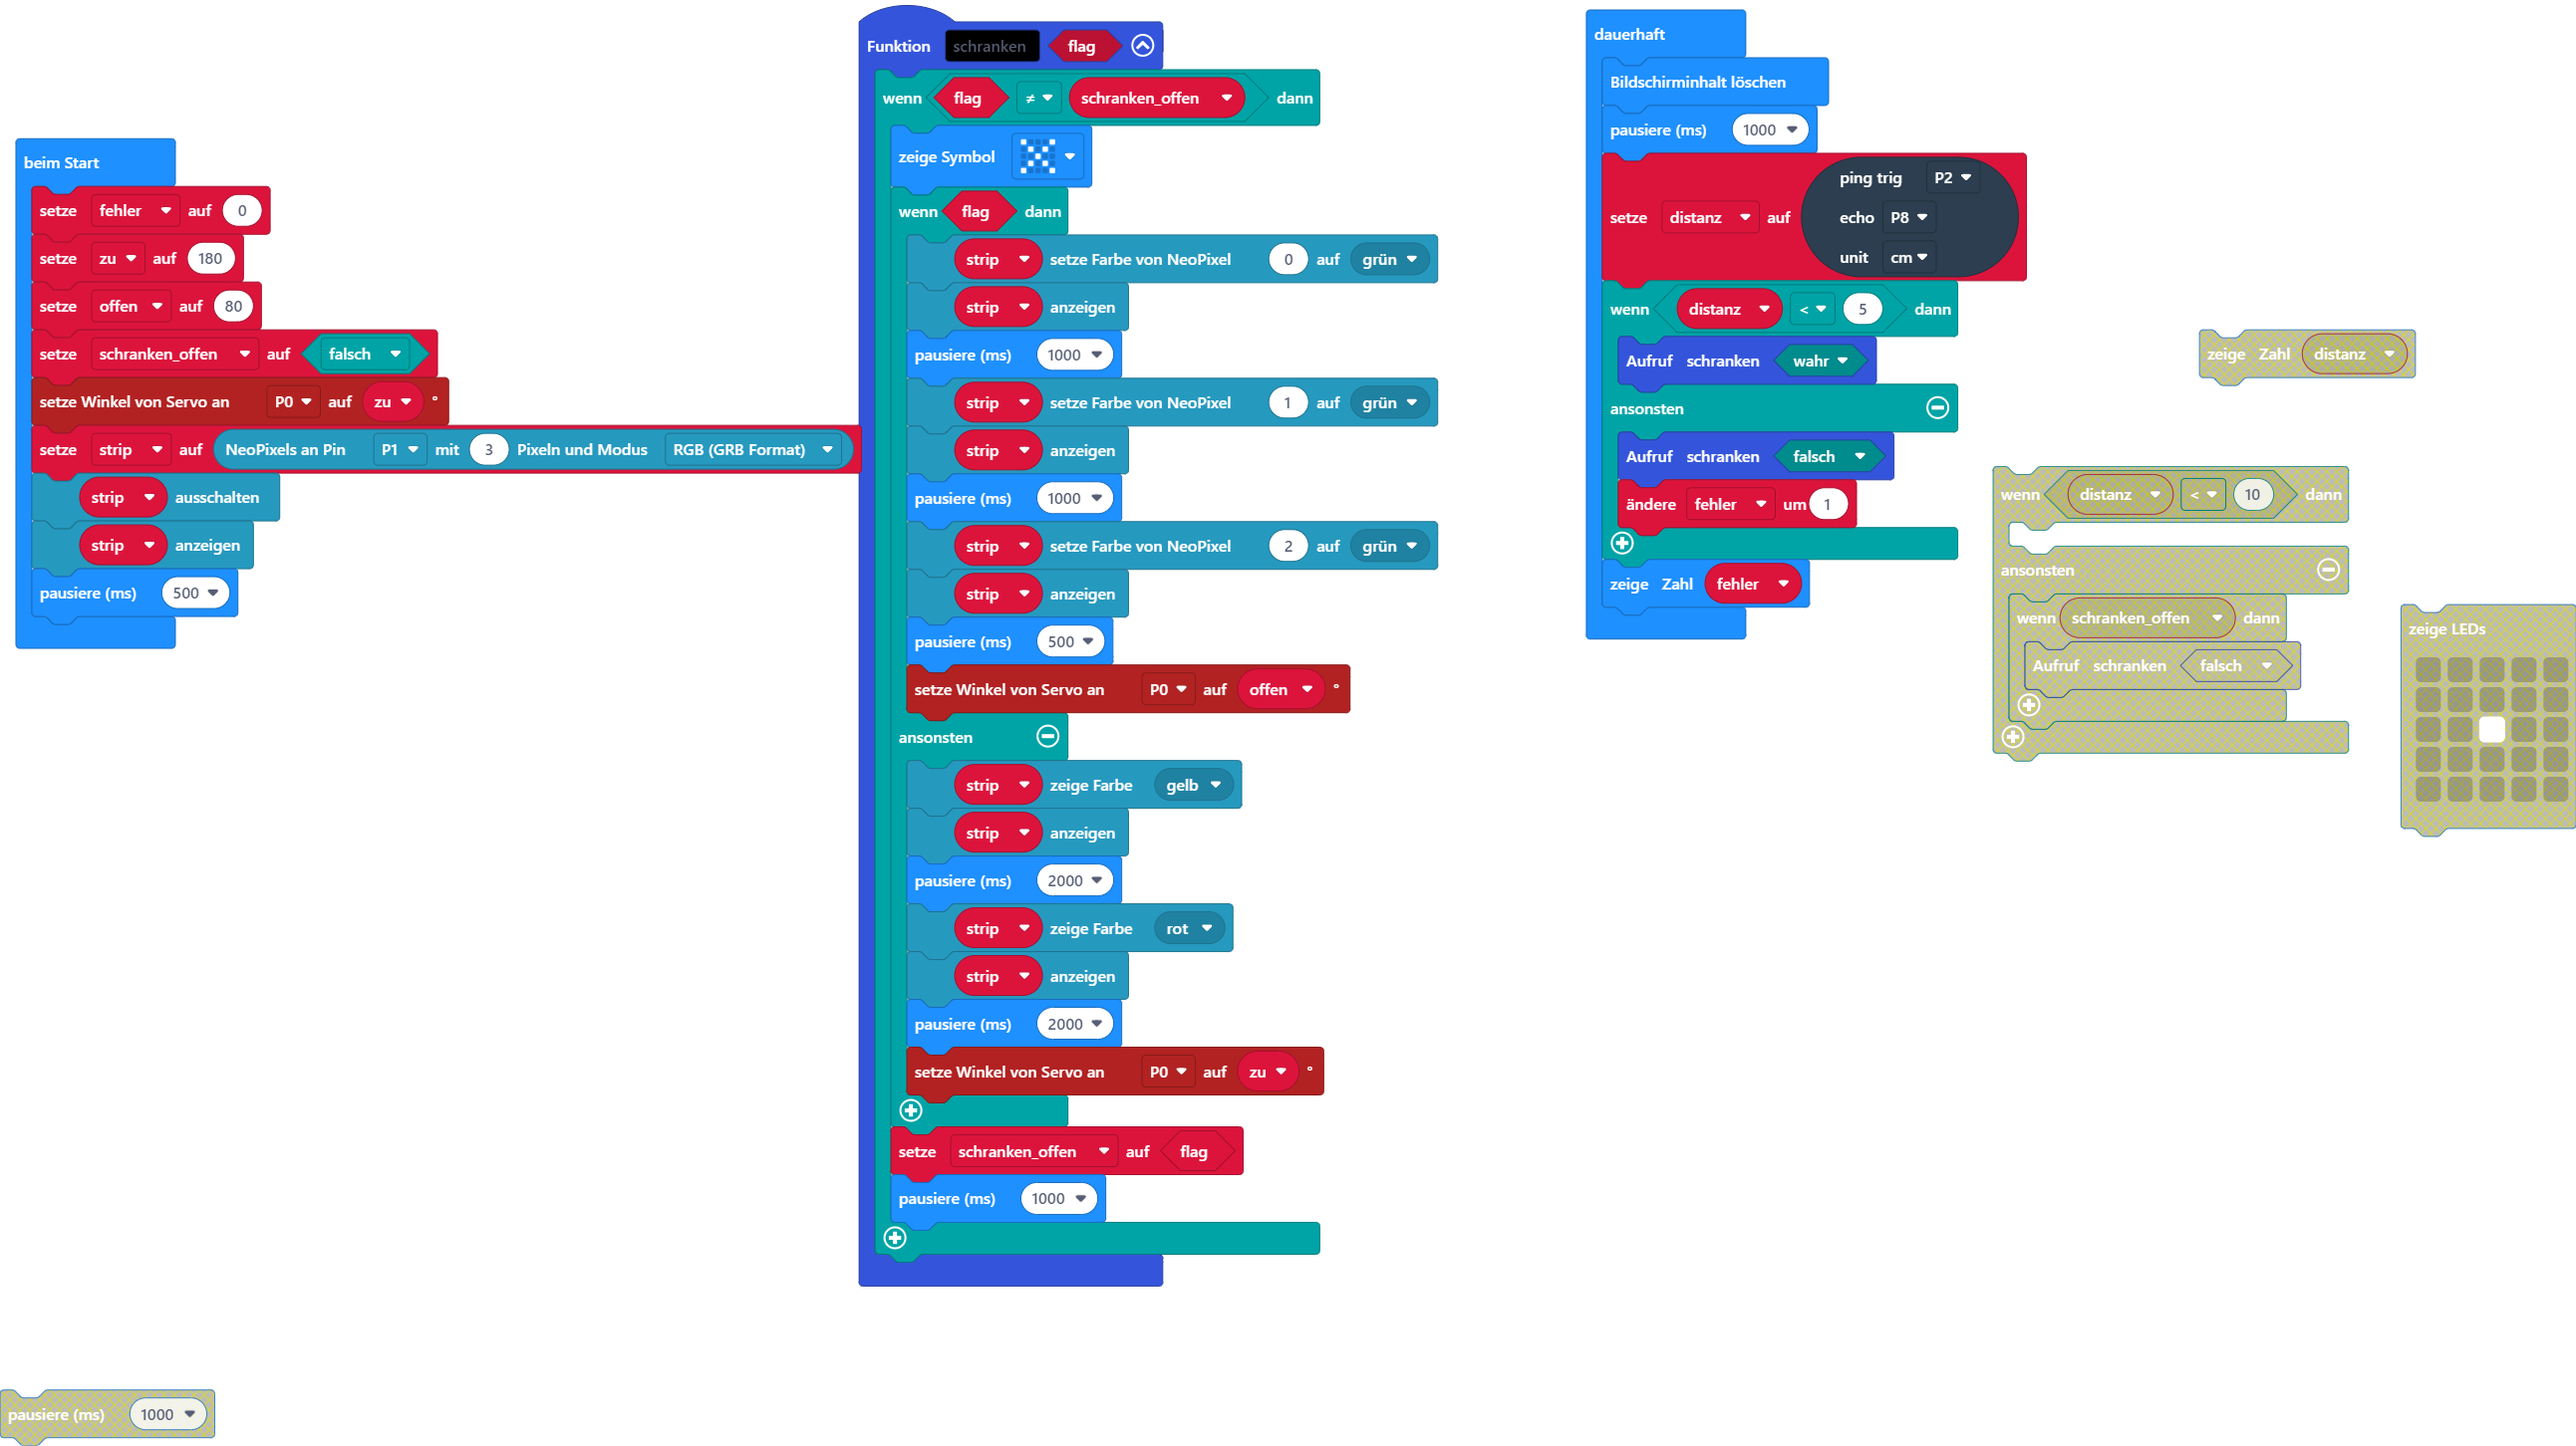
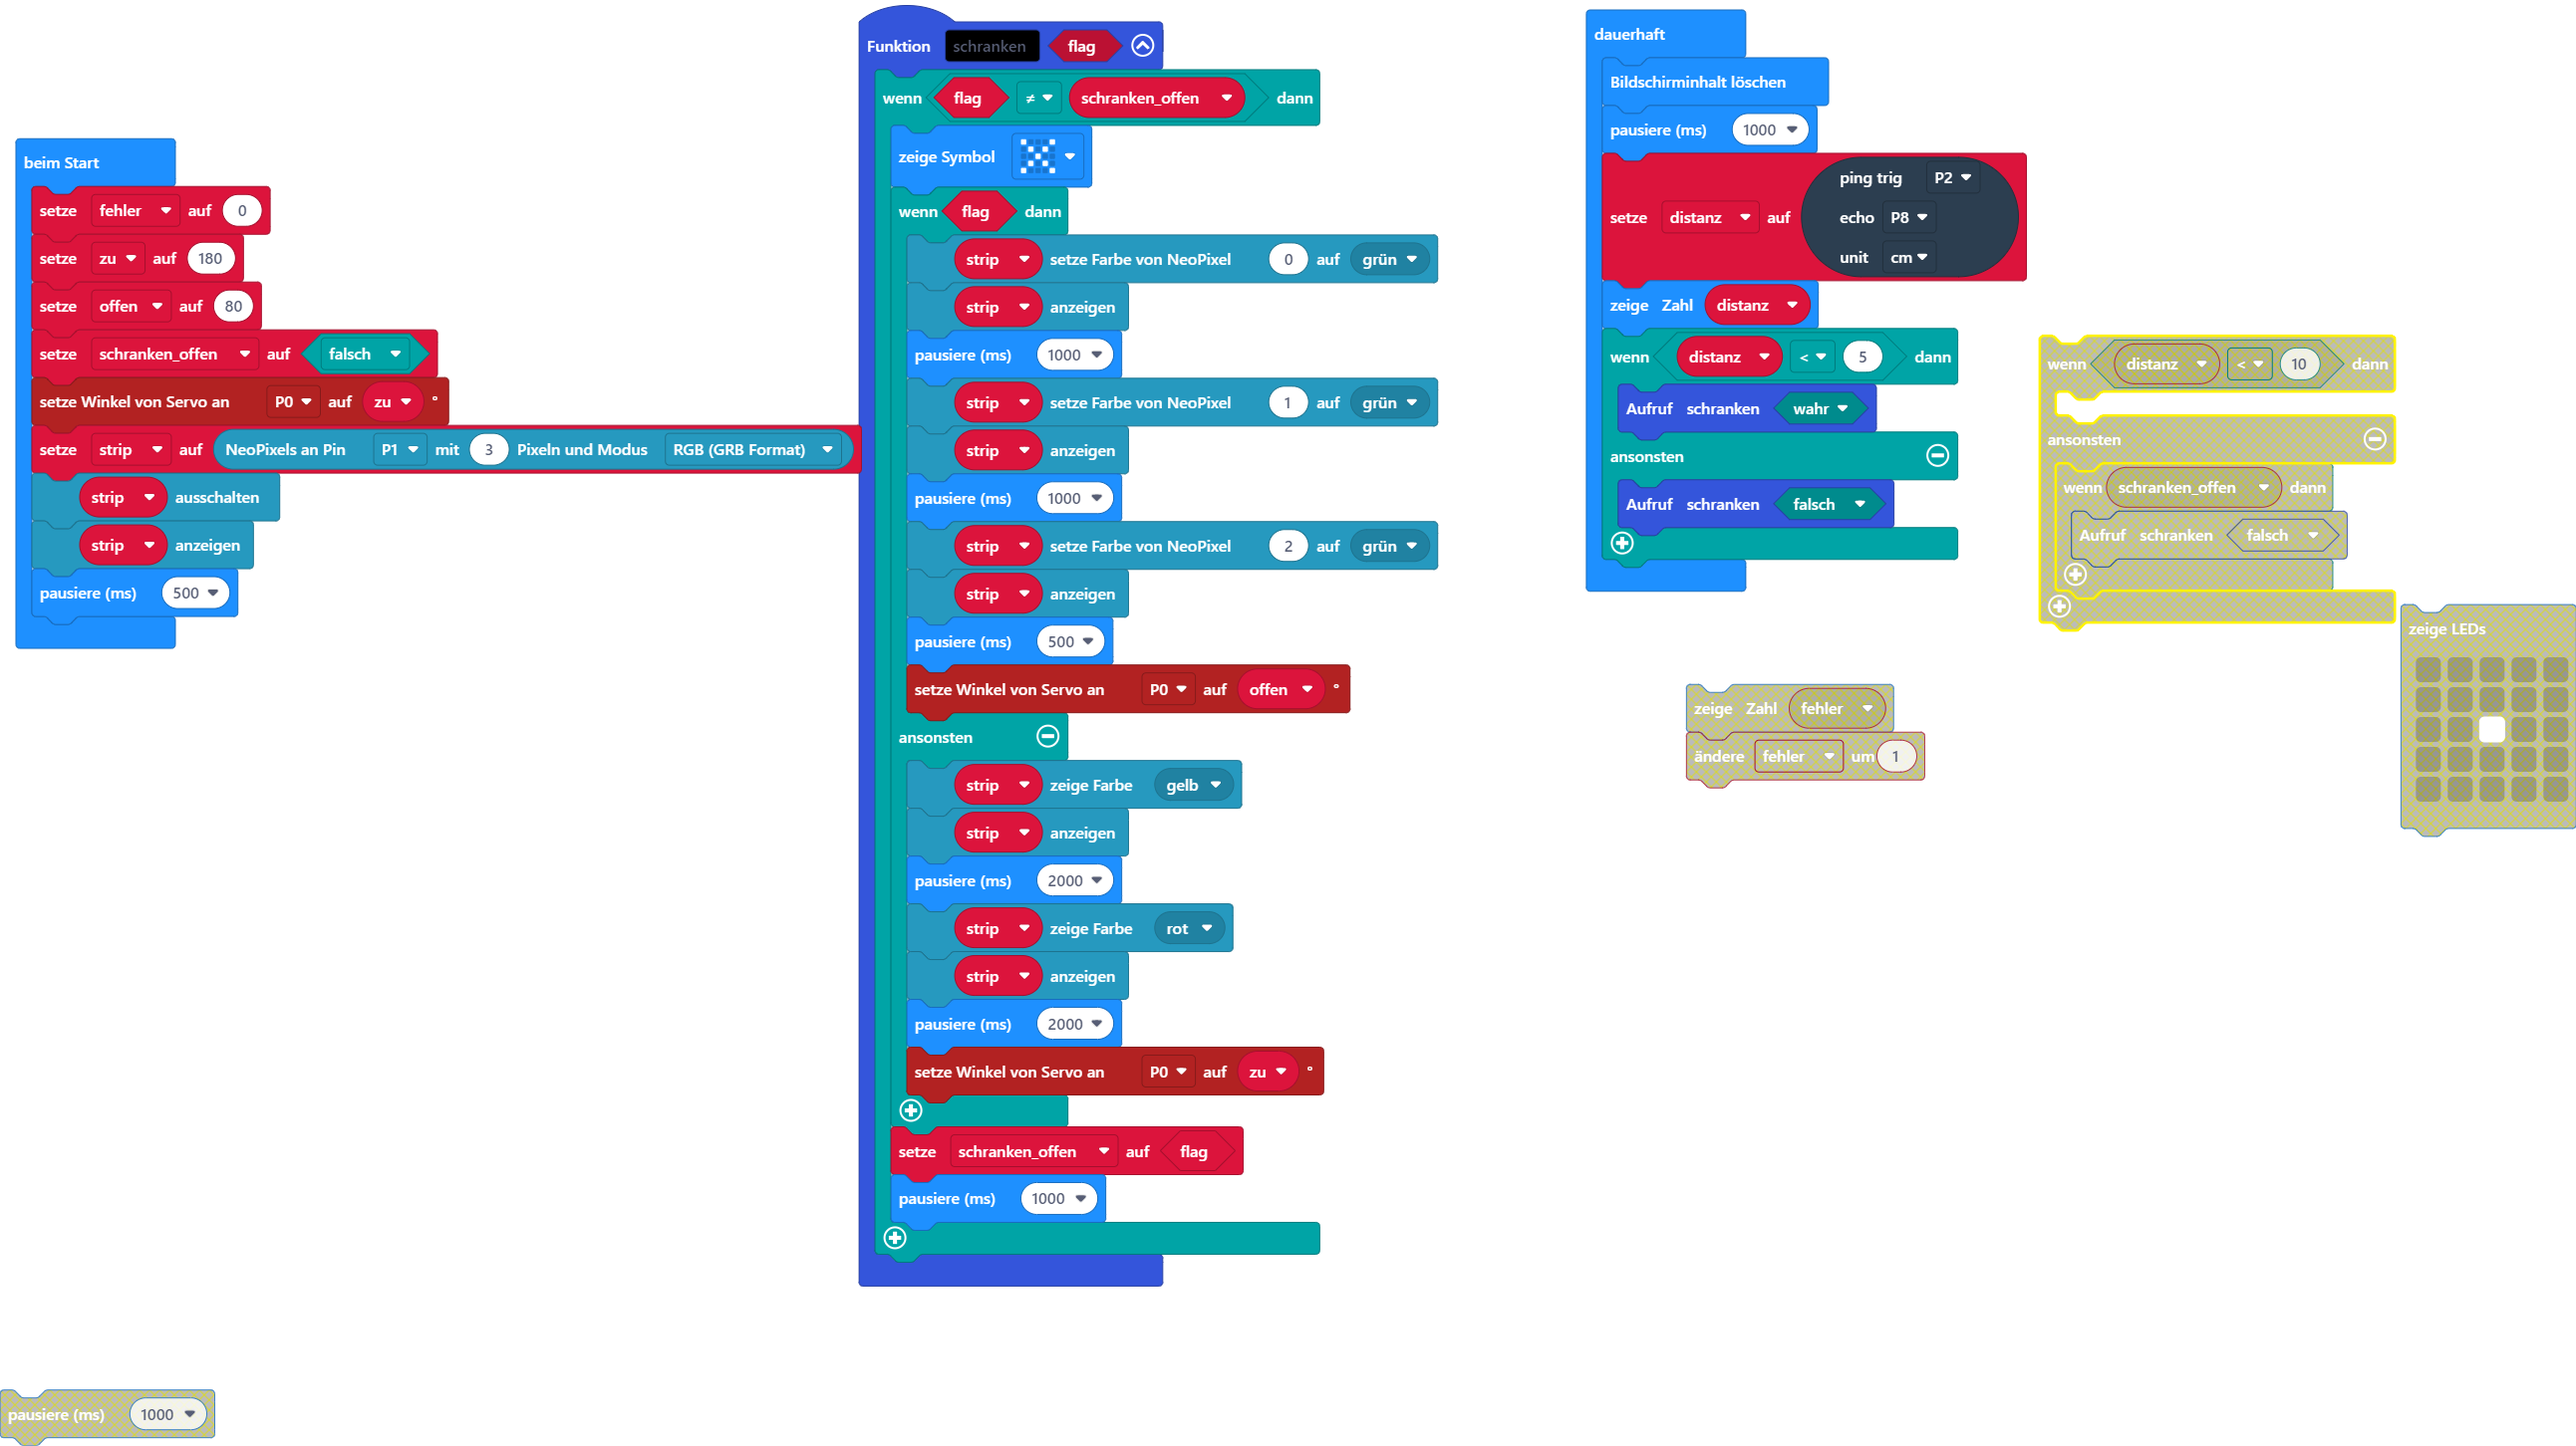
Aktualisiere main.blocks, main.ts

Changed region(s): [[0.619, 0.186, 0.9594, 0.5579]]

diff --git a/main.ts b/main.ts
@@ -47,11 +47,10 @@ basic.forever(function () {
     DigitalPin.P8,
     PingUnit.Centimeters
     )
+    basic.showNumber(distanz)
     if (distanz < 5) {
         schranken(true)
     } else {
         schranken(false)
-        fehler += 1
     }
-    basic.showNumber(fehler)
 })
